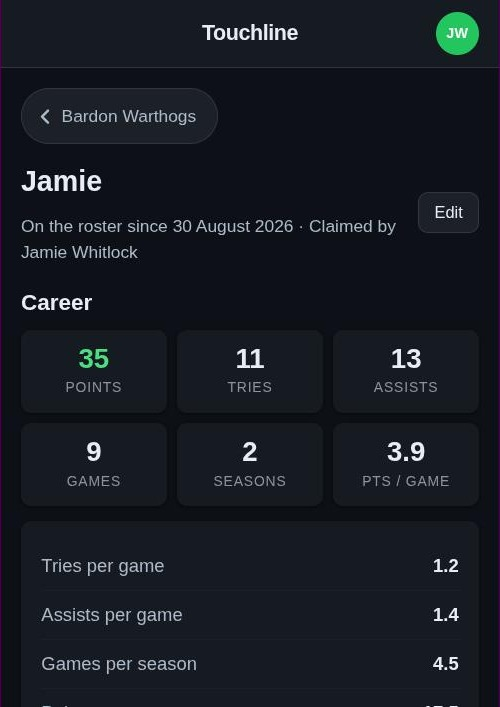
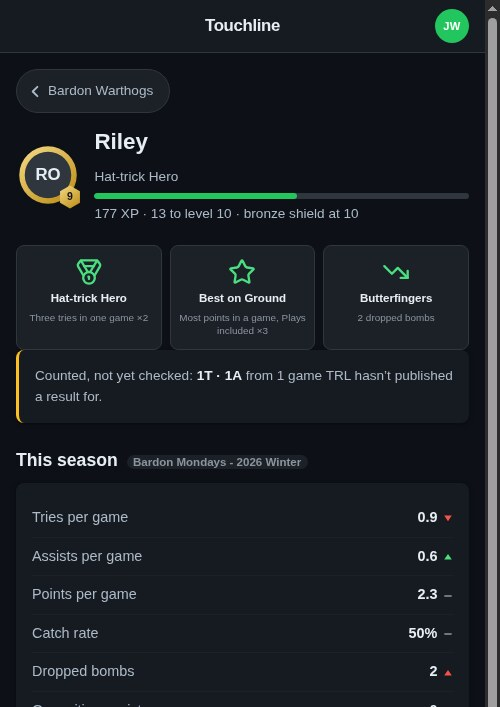
Rewrite the landing page ahead of monetising, and refresh its screenshots
Drops "free" everywhere it appeared — the landing CTA, its footer note,
and the sign-up page's own subheading, which said the same thing one
click later. Replaces the feature copy with what's actually new:
the fuller stat set (bomb catches, dropped bombs, opposition assists),
and levels/XP/accolades, which didn't exist in any of the copy before.

The three screenshots were stale — one showed the plus/minus stat
sheet that StatSheet's retirement replaced months ago, one a plain
table from before the leaderboard became the same cosmetic card as
the match ladder, and one predated levels entirely. Reshot all three
against the app's own seeded demo data: a live drag-to-assist for
entry, a personalised card (border, title, hot-streak flame, rank
movement) for the leaderboard, and the rebuilt profile for career.

Claude-Session: https://claude.ai/code/session_01X4psTpE1hZQN6ViVdroZTj

diff --git a/app/assets/stylesheets/application.css b/app/assets/stylesheets/application.css
@@ -451,13 +451,6 @@ h2 { font-size: 1.1rem; font-weight: 600; margin-bottom: 0.75rem; }
   line-height: 1.55;
 }
 
-.landing-footer-note {
-  font-size: 0.8rem;
-  color: var(--gray-400);
-  text-align: center;
-  padding-bottom: 2rem;
-}
-
 /* SEASON FILTER CHIPS */
 .filter-chips {
   display: flex;

diff --git a/test/controllers/home_controller_test.rb b/test/controllers/home_controller_test.rb
@@ -1,0 +1,30 @@
+require "test_helper"
+
+# The landing page: what a signed-out visitor sees before they've signed up
+# for anything, and the one page whose copy is a business decision as much as
+# a UI one.
+class HomeControllerTest < ActionDispatch::IntegrationTest
+  test "a signed-out visitor gets the landing page, not the My Teams screen" do
+    get root_path
+
+    assert_response :success
+    assert_select "a", text: "Sign up"
+    assert_no_match(/free/i, response.body)
+  end
+
+  test "the landing page sells the new stat set and progression, not just tries" do
+    get root_path
+
+    assert_match(/bomb catch/i, response.body)
+    assert_match(/dropped bomb/i, response.body)
+    assert_match(/xp|level/i, response.body)
+  end
+
+  test "a signed-in visitor gets My Teams instead" do
+    sign_in_as users(:member_user)
+
+    get root_path
+
+    assert_select "h1", text: "My Teams"
+  end
+end
